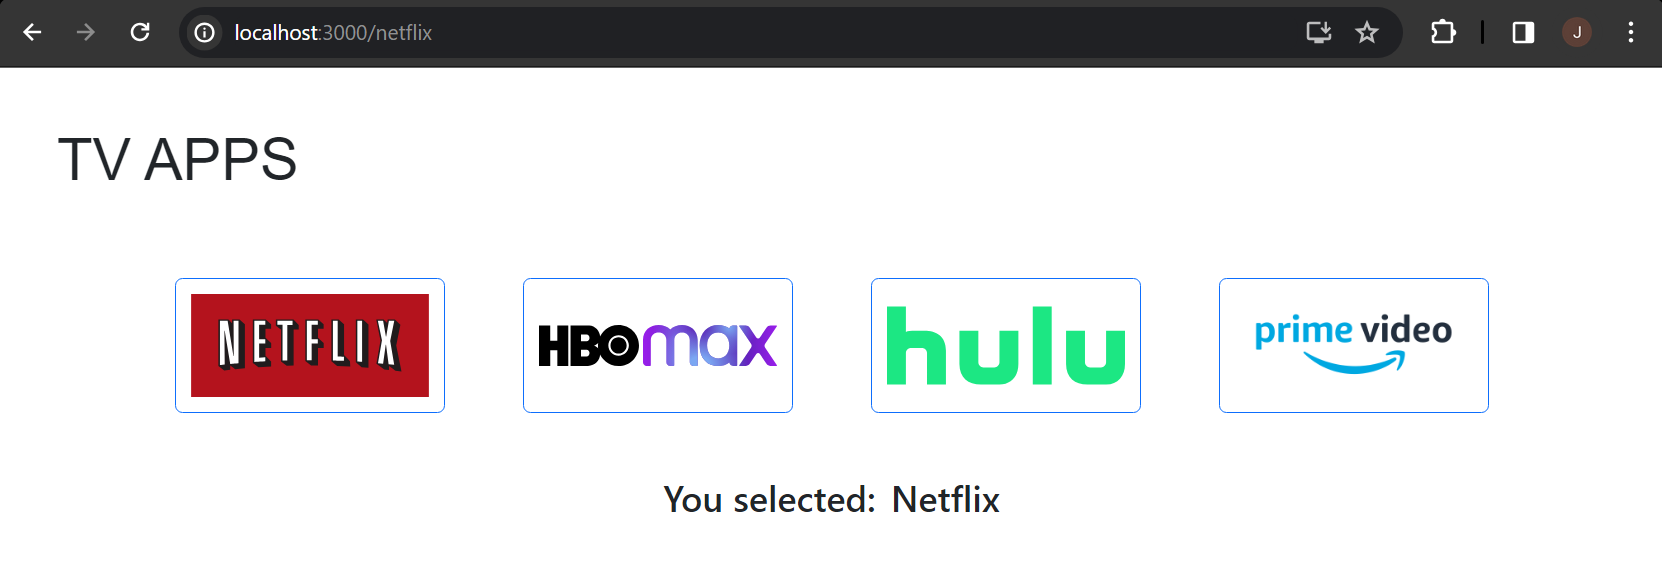
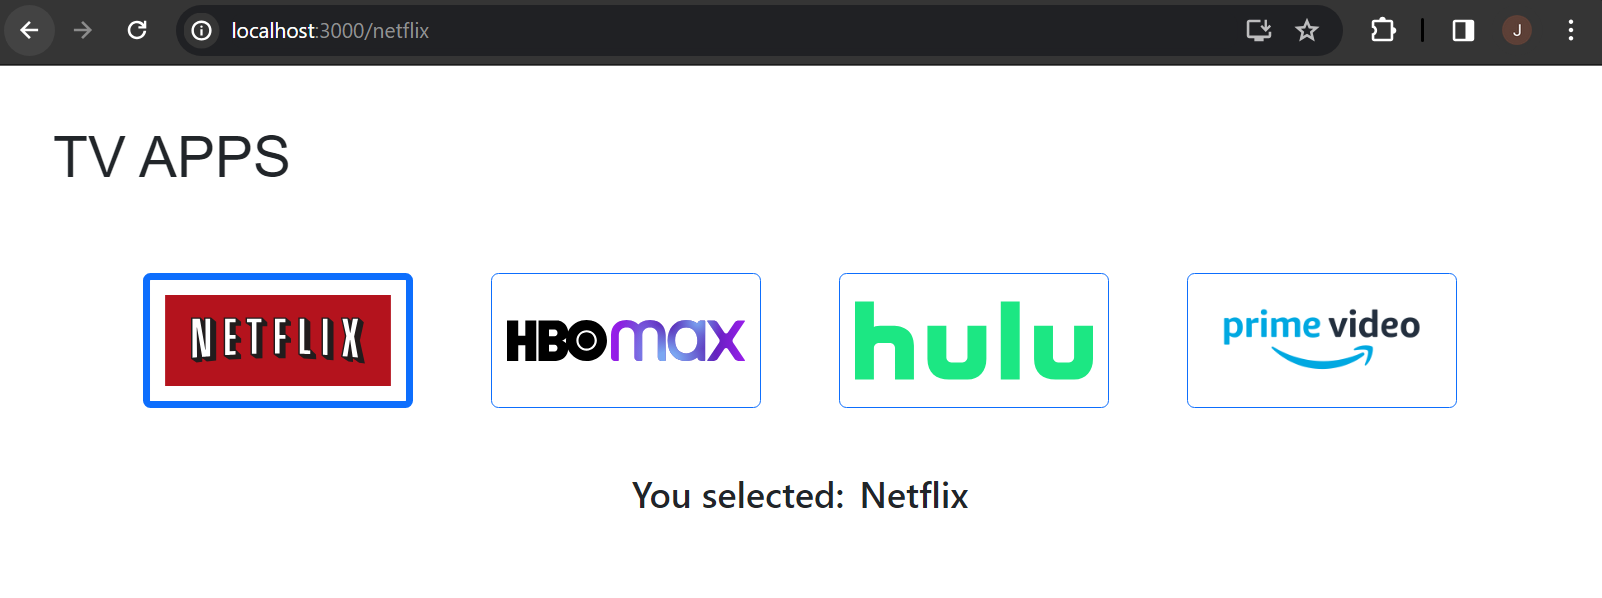
updated README and screenshots

diff --git a/README.md b/README.md
@@ -1,7 +1,26 @@
 # web603-hw-w7d2
 
-## Test
+## Walkthrough
 
+Create the app "router-params" by
+```bash
+$ npx create-react-app router-params
+```
+
+With `router-params/` as the current directory, install the following dependencies by
+```bash
+$ npm install bootstrap react-router-dom
+```
+
+Key parts of the code:
+
+1. Clicking an app icon is directed to the corresponding URL path.
+
+2. Use `useParams` to get the app-id from the URL path, for the string "You selected: ${app-id}.".
+
+3. Use React state to track which icon has been clicked and then apply a different style to that icon.
+
+## Test
 ### App Home
 ![app-home](screenshots/app-home.png)
 
@@ -11,10 +30,10 @@ Clicking on Netflix:
 ![click-netflix](screenshots/click-netflix.png)
 
 Clicking on HBO Max:
-![click-netflix](screenshots/click-netflix.png)
+![click-hbo](screenshots/click-hbo.png)
 
 Clicking on Hulu:
-![click-netflix](screenshots/click-netflix.png)
+![click-hulu](screenshots/click-hulu.png)
 
 Clicking on Prime Video:
-![click-netflix](screenshots/click-netflix.png)
+![click-prime](screenshots/click-prime.png)
